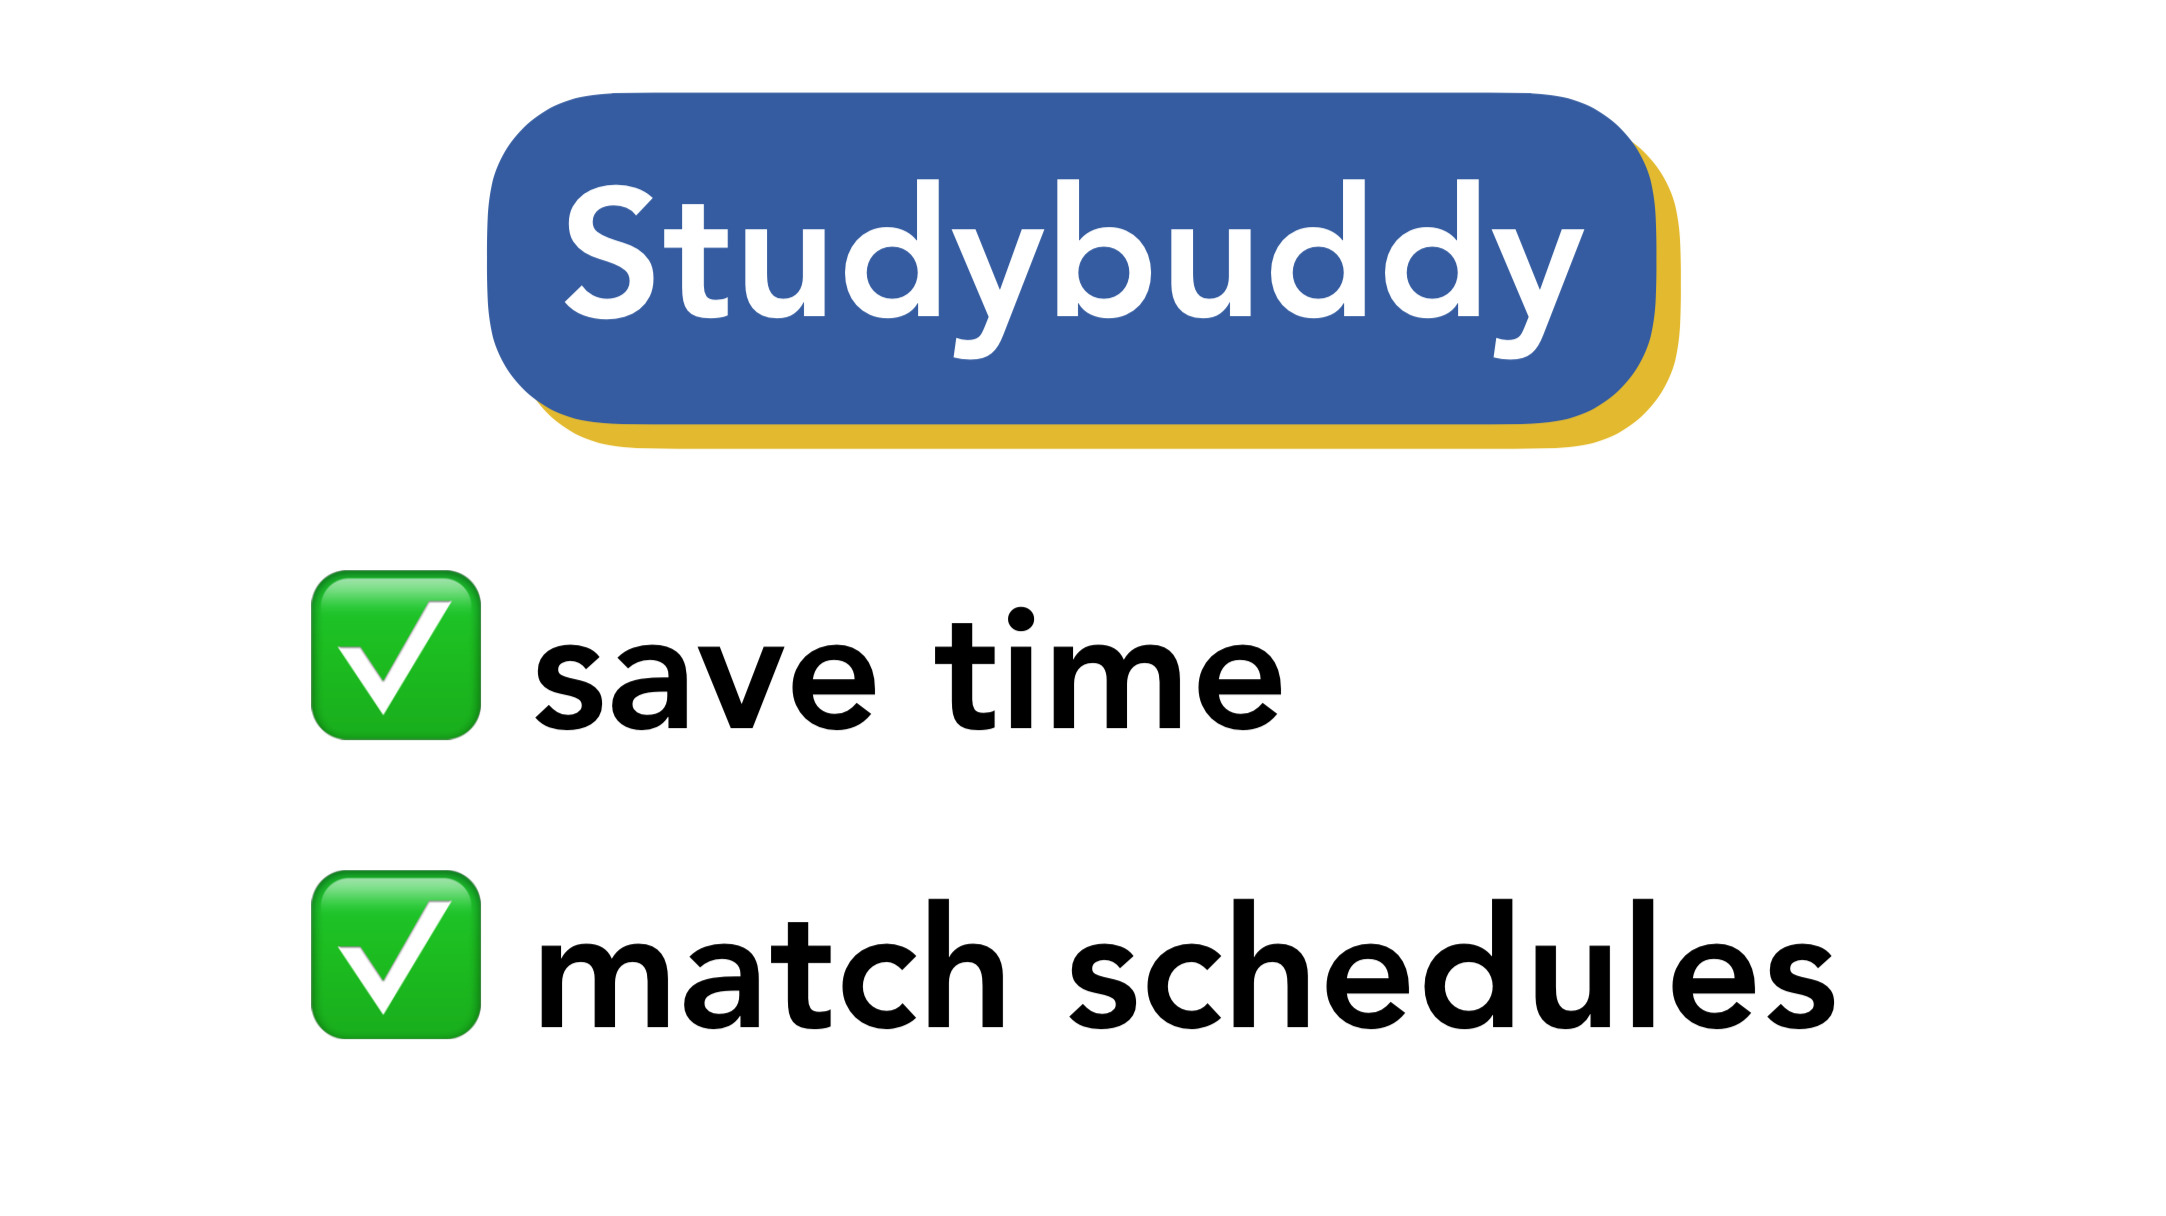
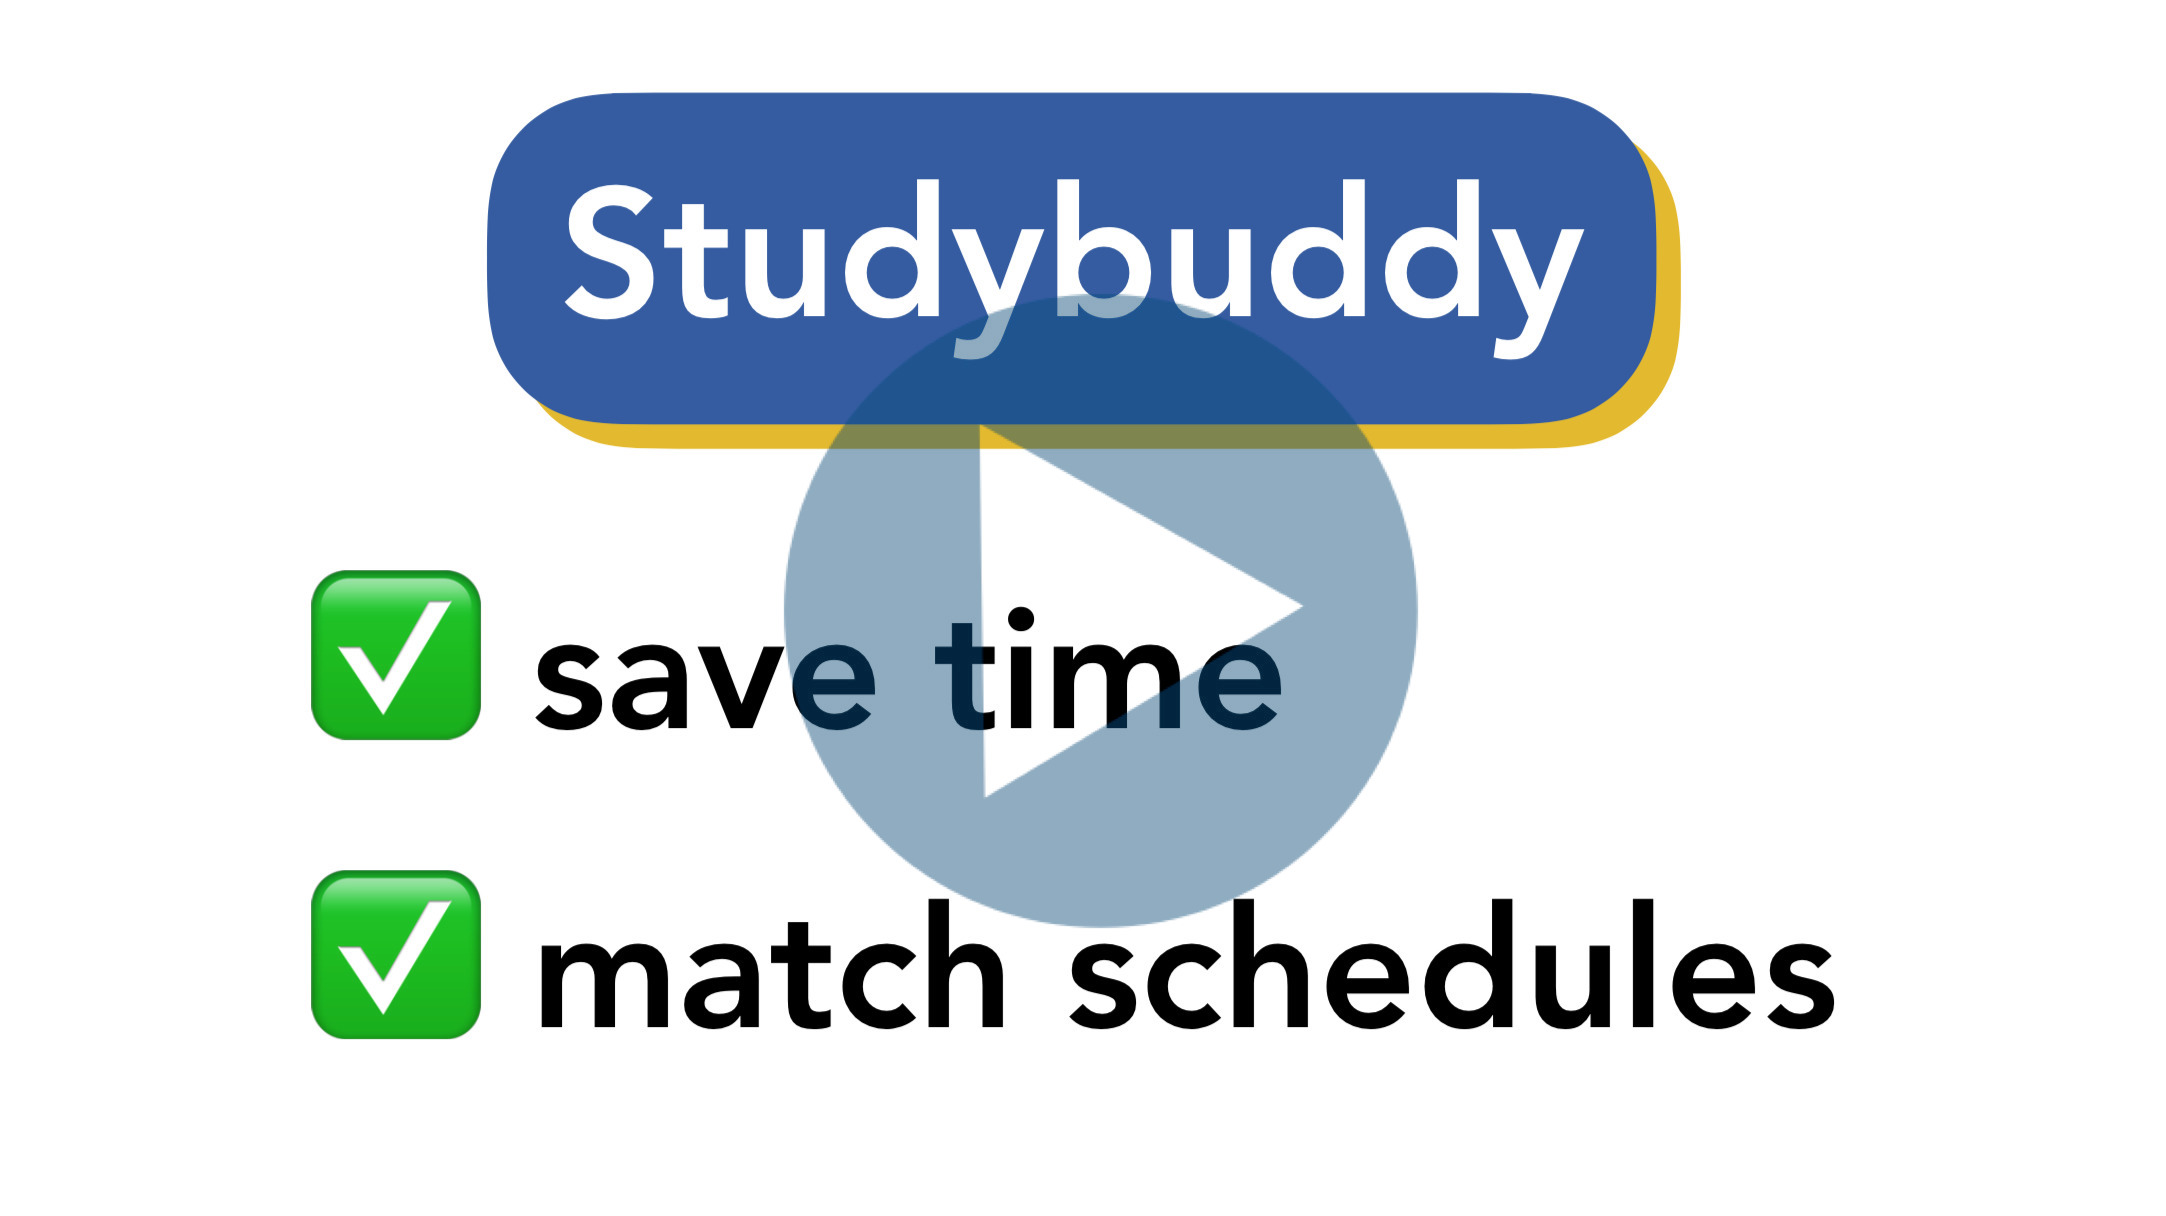
Add some quick design finishes until I have more time to dedicate

Changed region(s): [[0.3403, 0.3438, 0.6805, 0.7812], [0.4331, 0.2188, 0.5568, 0.3125]]

diff --git a/static/index.html b/static/index.html
@@ -79,7 +79,33 @@
           <p>Kaushal Bommena, class of 2022</p>
         </div>
       </div>
-      <h1>Built by Cal students like you</h1>
+      <div class="splits">
+        <div class="lsplit screenshots">
+          <img src="/img/screenshot1.png" alt="Studybuddy sign-up" class="first">
+          <img src="/img/screenshot2.png" alt="Studybuddy list view" class="second">
+        </div>
+        <div class="rsplit">
+          <h1>Find your study partner for the upcoming finals in just a few minutes.</h1>
+          <p>With our hassle-free schedule matching, we help you find other students who are looking for study partners, with a schedule that works for you.</p>
+          <div class="signupGroup">
+            <input class="signupEmail" type="email" placeholder="oski@berkeley.edu" />
+            <button class="signupButton">Sign up</button>
+          </div>
+        </div>
+      </div>
+      <h1>Studybuddy works with the classes you're taking</h1>
+      <div class="chips">
+        <div class="chip">CS 61A</div>
+        <div class="chip">MATH 1A</div>
+        <div class="chip">PHYS 7A</div>
+        <div class="chip">DATA 8</div>
+        <div class="chip">CS 61B</div>
+        <div class="chip">MATH 1B</div>
+        <div class="chip">MATH 10A</div>
+        <div class="chip">... and many more</div>
+      </div>
+      <h1>Built by Cal students like you.</h1>
+      <p>Studybuddy is built by a team of two Cal students, Linus and Divyansh, studying computer science and economics.</p>
     </main>
     <footer>
       <nav>

diff --git a/static/css/main.css b/static/css/main.css
@@ -133,7 +133,6 @@ main {
 
 .lsplit,
 .rsplit {
-    height: 520px;
     flex-shrink: 1;
     width: 50%;
 }
@@ -169,6 +168,11 @@ main {
     left: 42%;
     background-image: url('/img/thumbvideo.jpg');
     background-size: cover;
+    cursor: pointer;
+}
+
+.videoThumbs .video:hover {
+    opacity: .9;
 }
 
 .videoThumbs .first {
@@ -225,6 +229,10 @@ main {
 .vprop {
     font-size: 40px;
     margin: 32px 0;
+}
+
+h1 {
+    margin-top: 32px;
 }
 
 h1 em {
@@ -339,6 +347,33 @@ h2 {
 .screenshots img {
     box-shadow: var(--shadow);
     max-width: 100%;
+
+    /* TODO: fix this */
+    width: 45%;
+}
+
+.chips {
+    display: flex;
+    flex-direction: row;
+    justify-content: center;
+    flex-wrap: wrap;
+}
+
+.chip {
+    background: var(--sb-dark-primary);
+    color: #fff;
+    box-shadow: var(--shadow);
+    border-radius: 8px;
+    margin: 16px;
+    padding: 16px 26px;
+    font-weight: bold;
+    cursor: pointer;
+    transition: transform .3s;
+    font-size: 20px;
+}
+
+.chip:hover {
+    transform: scale(1.15) rotate(5deg);
 }
 
 @media (max-width: 600px) {
